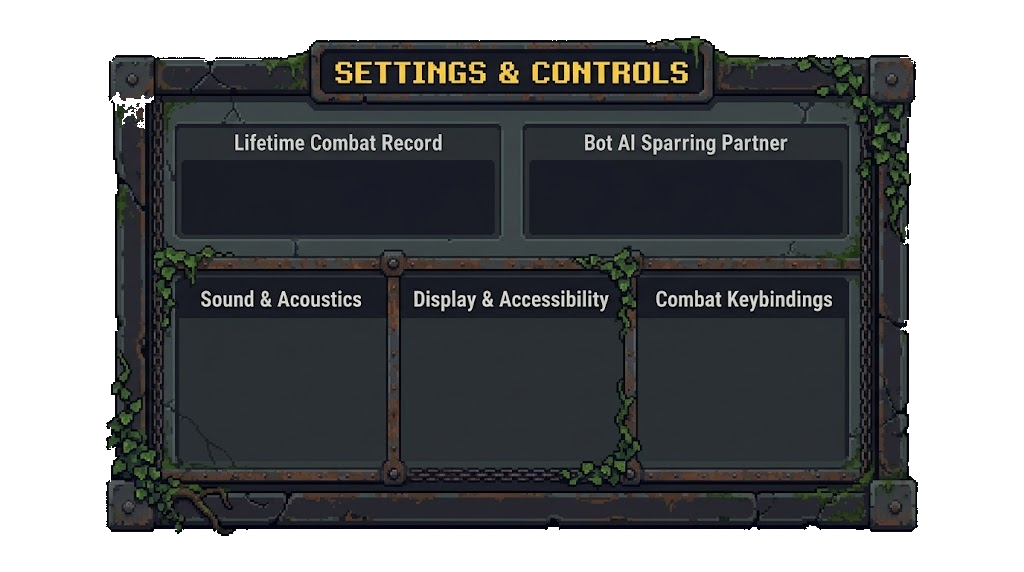
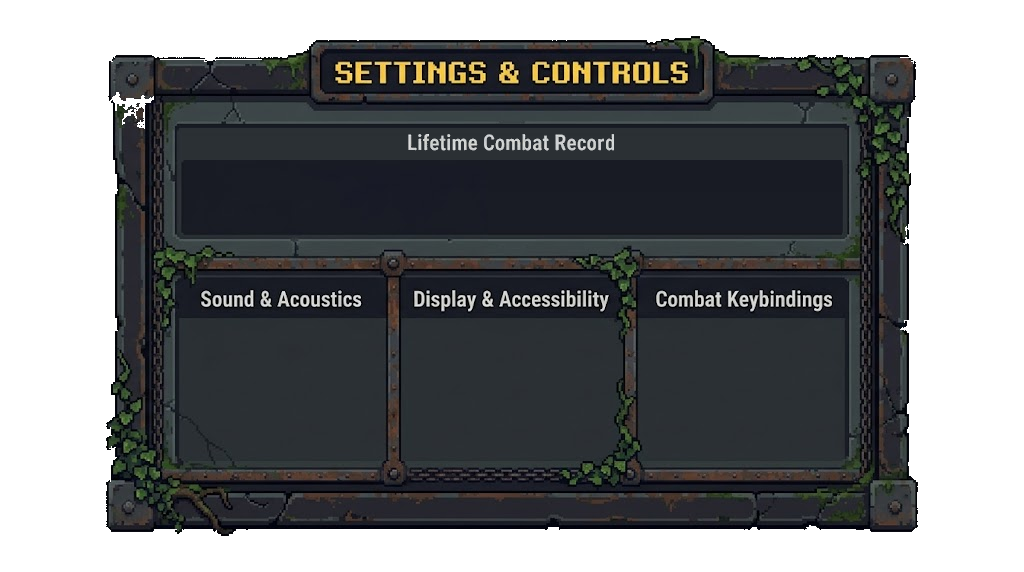
refactor(settings): remove bot sparring partner and unify lifetime combat record

Changed region(s): [[0.2188, 0.208, 0.7812, 0.4161]]

diff --git a/apps/web/src/app/settings/page.tsx b/apps/web/src/app/settings/page.tsx
@@ -19,9 +19,6 @@ export default function SettingsPage() {
   const [sfxMuted, setSfxMuted] = useState<boolean>(false);
   const [highContrast, setHighContrast] = useState<boolean>(false);
   const [reducedMotion, setReducedMotion] = useState<boolean>(false);
-  const [botDifficulty, setBotDifficulty] = useState<'novice' | 'adept' | 'expert' | 'master'>(
-    'adept'
-  );
   const [controlPreset, setControlPreset] = useState<'modern' | 'classic'>('modern');
 
   const [stats, setStats] = useState<PlayerStatistics>(DEFAULT_PLAYER_STATISTICS);
@@ -52,9 +49,6 @@ export default function SettingsPage() {
         if (typeof parsed.reducedMotion === 'boolean') {
           setReducedMotion(parsed.reducedMotion);
           document.body.classList.toggle('reduced-motion', parsed.reducedMotion);
-        }
-        if (['novice', 'adept', 'expert', 'master'].includes(parsed.botDifficulty)) {
-          setBotDifficulty(parsed.botDifficulty);
         }
         if (['modern', 'classic'].includes(parsed.controlPreset)) {
           setControlPreset(parsed.controlPreset);
@@ -91,7 +85,6 @@ export default function SettingsPage() {
           sfxMuted,
           highContrast,
           reducedMotion,
-          botDifficulty,
           controlPreset,
           ...current,
           ...updates,
@@ -128,11 +121,6 @@ export default function SettingsPage() {
       document.body.classList.toggle('reduced-motion', checked);
     }
     persistSettings({ reducedMotion: checked });
-  };
-
-  const handleDifficultyChange = (diff: 'novice' | 'adept' | 'expert' | 'master') => {
-    setBotDifficulty(diff);
-    persistSettings({ botDifficulty: diff });
   };
 
   const handlePresetChange = (preset: 'modern' | 'classic') => {
@@ -229,25 +217,6 @@ export default function SettingsPage() {
                   RESET
                 </button>
               )}
-            </div>
-          </section>
-
-          {/* COMPARTMENT 2: Bot AI Sparring Partner */}
-          <section className={styles.boxBotAI} aria-label="Bot AI Sparring Partner options">
-            <div className={styles.diffGroup}>
-              {(['novice', 'adept', 'expert', 'master'] as const).map(diff => {
-                const isActive = botDifficulty === diff;
-                return (
-                  <button
-                    key={diff}
-                    type="button"
-                    onClick={() => handleDifficultyChange(diff)}
-                    className={`${styles.diffToggleBtn} ${isActive ? styles.diffToggleActive : ''}`}
-                  >
-                    {diff}
-                  </button>
-                );
-              })}
             </div>
           </section>
 

diff --git a/apps/web/src/app/settings/settings.module.css b/apps/web/src/app/settings/settings.module.css
@@ -115,25 +115,28 @@
 }
 
 /* Compartment 1: Lifetime Combat Record */
-/* x: 17.68%, y: 27.97%, w: 30.66%, h: 13.11% */
+/* Unified full-width top compartment: left 17.68%, top 27.97%, width 64.64%, height 13.11% */
 .boxCombatRecord {
   position: absolute;
   left: 17.68%;
   top: 27.97%;
-  width: 30.66%;
+  width: 64.64%;
   height: 13.11%;
   display: flex;
   flex-direction: column;
-  justify-content: space-around;
-  padding: 4px 8px;
+  justify-content: center;
+  align-items: center;
+  padding: 4px 16px;
   box-sizing: border-box;
+  gap: 4px;
 }
 
 .statsRow {
   display: flex;
-  justify-content: space-between;
+  justify-content: space-evenly;
   align-items: center;
   width: 100%;
+  max-width: 580px;
 }
 
 .miniStat {
@@ -179,9 +182,8 @@
 
 .resetRow {
   display: flex;
-  justify-content: flex-end;
+  justify-content: center;
   align-items: center;
-  margin-top: 2px;
 }
 
 .miniResetBtn {
@@ -227,61 +229,6 @@
   font-family: 'Press Start 2P', monospace;
   font-size: clamp(0.38rem, 0.65vw, 0.45rem);
   cursor: pointer;
-}
-
-/* Compartment 2: Bot AI Sparring Partner */
-/* x: 51.66%, y: 27.97%, w: 30.66%, h: 13.11% */
-.boxBotAI {
-  position: absolute;
-  left: 51.66%;
-  top: 27.97%;
-  width: 30.66%;
-  height: 13.11%;
-  display: flex;
-  flex-direction: column;
-  justify-content: center;
-  align-items: center;
-  padding: 4px 8px;
-  box-sizing: border-box;
-  gap: 6px;
-}
-
-.diffGroup {
-  display: flex;
-  gap: 8px;
-  width: 100%;
-  justify-content: center;
-}
-
-.diffToggleBtn {
-  flex: 1;
-  background-color: #1a1622;
-  color: #8a8296;
-  border: 2px solid #383044;
-  padding: 6px 4px;
-  font-family: 'Press Start 2P', monospace;
-  font-size: clamp(0.48rem, 0.85vw, 0.62rem);
-  letter-spacing: 0.05em;
-  text-transform: uppercase;
-  cursor: pointer;
-  box-shadow: inset -1px -1px 0px 0px rgba(0, 0, 0, 0.8);
-  transition: all 0.1s ease;
-  text-align: center;
-}
-
-.diffToggleBtn:hover {
-  color: #cbd5e1;
-  background-color: #262030;
-}
-
-.diffToggleActive {
-  background-color: #f1c40f !important;
-  color: #080a10 !important;
-  border-color: #ffffff !important;
-  font-weight: 900;
-  box-shadow:
-    inset -1px -1px 0px 0px rgba(0, 0, 0, 0.6),
-    0 0 10px rgba(241, 196, 15, 0.6) !important;
 }
 
 /* Compartment 3: Sound & Acoustics */
